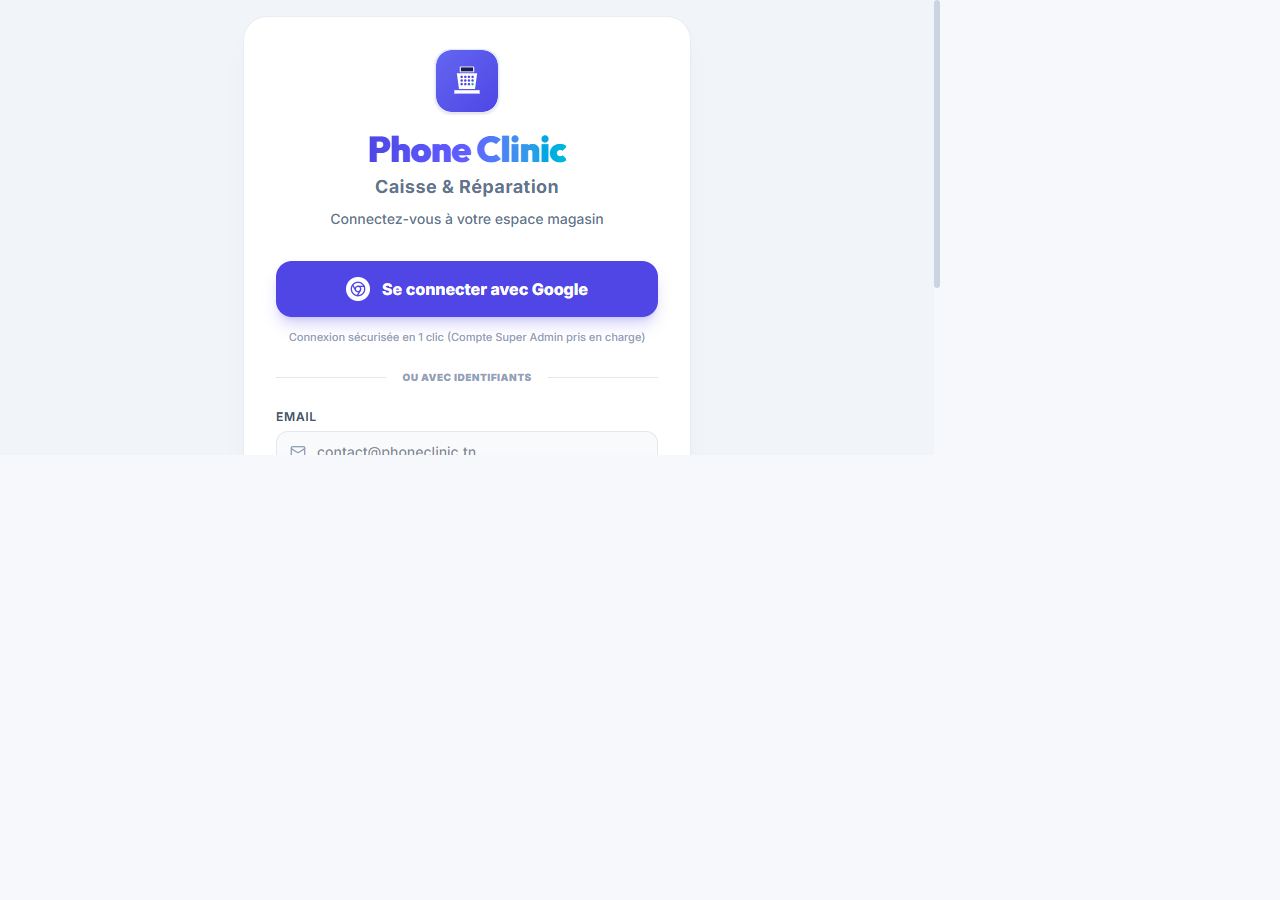
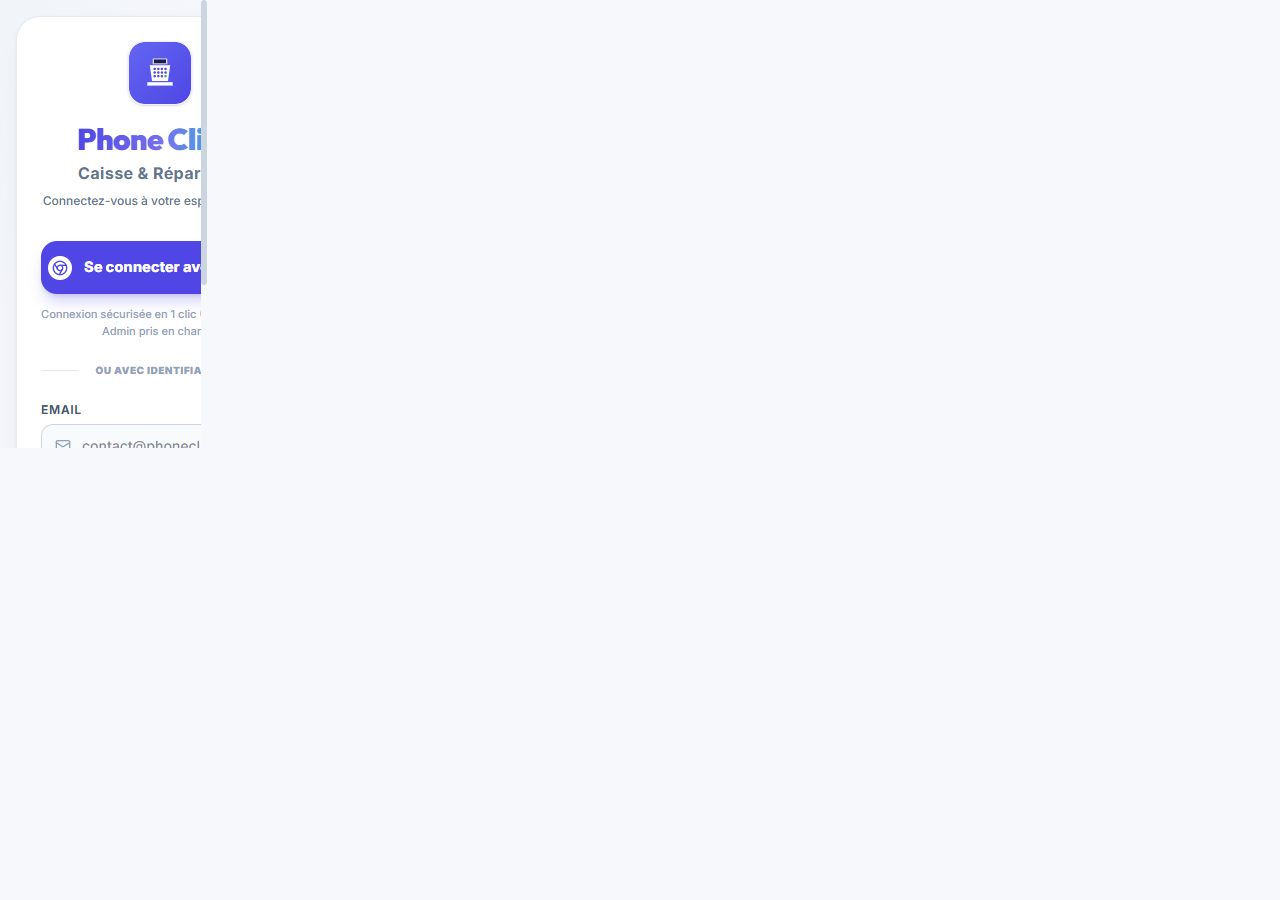
Add shared design tokens and login captures

diff --git a/src/index.css b/src/index.css
@@ -5,12 +5,100 @@
   --font-mono: "JetBrains Mono", ui-monospace, SFMono-Regular, monospace;
   --font-display: "Outfit Variable", Outfit, sans-serif;
   --color-brand: var(--brand-primary, #4f46e5);
+  --color-indigo-50: color-mix(in srgb, var(--brand-primary, #4f46e5) 5%, white);
+  --color-indigo-100: color-mix(in srgb, var(--brand-primary, #4f46e5) 10%, white);
+  --color-indigo-200: color-mix(in srgb, var(--brand-primary, #4f46e5) 20%, white);
+  --color-indigo-300: color-mix(in srgb, var(--brand-primary, #4f46e5) 35%, white);
+  --color-indigo-400: color-mix(in srgb, var(--brand-primary, #4f46e5) 55%, white);
+  --color-indigo-500: color-mix(in srgb, var(--brand-primary, #4f46e5) 78%, white);
   --color-indigo-600: var(--brand-primary, #4f46e5);
   --color-indigo-700: color-mix(in srgb, var(--brand-primary, #4f46e5) 82%, black);
+  --color-indigo-800: color-mix(in srgb, var(--brand-primary, #4f46e5) 68%, black);
+  --color-indigo-900: color-mix(in srgb, var(--brand-primary, #4f46e5) 54%, black);
+  --color-indigo-950: color-mix(in srgb, var(--brand-primary, #4f46e5) 42%, black);
+  --spacing-page: clamp(1rem, 3vw, 2rem);
+  --spacing-card: clamp(1rem, 2vw, 1.5rem);
   --radius-card: 1.25rem;
   --radius-control: 0.75rem;
+  --radius-panel: 1.5rem;
+  --shadow-soft: 0 2px 12px rgb(15 23 42 / 5%);
   --shadow-card: 0 12px 36px -24px rgb(15 23 42 / 24%), 0 1px 3px rgb(15 23 42 / 5%);
   --shadow-card-hover: 0 20px 42px -24px rgb(15 23 42 / 30%), 0 4px 10px rgb(15 23 42 / 5%);
+}
+
+@layer base {
+  body {
+    font-family: var(--font-sans);
+    line-height: 1.5;
+  }
+
+  h1, h2, h3, h4, h5, h6 {
+    font-family: var(--font-display);
+  }
+
+  button, [role="button"] {
+    min-height: 40px;
+    transition-duration: 160ms;
+  }
+
+  input:not([type="checkbox"]):not([type="radio"]):not([type="range"]),
+  select, textarea {
+    min-height: 40px;
+    border-radius: var(--radius-control);
+  }
+}
+
+@layer components {
+  .app-card {
+    border: 1px solid rgb(226 232 240 / 85%);
+    border-radius: var(--radius-card);
+    background: white;
+    box-shadow: var(--shadow-card);
+    transition: box-shadow 180ms ease, border-color 180ms ease;
+  }
+
+  .app-card:hover {
+    box-shadow: var(--shadow-card-hover);
+  }
+
+  .app-field {
+    min-height: 44px;
+    border: 1px solid rgb(203 213 225);
+    border-radius: var(--radius-control);
+    background: white;
+    padding: 0.625rem 0.875rem;
+    color: #0f172a;
+    transition: border-color 160ms ease, box-shadow 160ms ease;
+  }
+
+  .app-button-primary,
+  .app-button-secondary,
+  .app-button-danger {
+    display: inline-flex;
+    min-height: 40px;
+    align-items: center;
+    justify-content: center;
+    border-radius: var(--radius-control);
+    padding: 0.625rem 1rem;
+    font-weight: 700;
+    transition: background-color 160ms ease, color 160ms ease, box-shadow 160ms ease;
+  }
+
+  .app-button-primary {
+    background: var(--brand-primary, #4f46e5);
+    color: white;
+  }
+
+  .app-button-secondary {
+    border: 1px solid rgb(203 213 225);
+    background: white;
+    color: #334155;
+  }
+
+  .app-button-danger {
+    background: #be123c;
+    color: white;
+  }
 }
 
 @font-face {
@@ -112,6 +200,20 @@ tbody tr {
 
 .premium-shadow:hover {
   box-shadow: var(--shadow-card-hover);
+}
+
+.app-nav-active {
+  position: relative;
+}
+
+.app-nav-active::before {
+  position: absolute;
+  inset-block: 0.5rem;
+  left: 0;
+  width: 3px;
+  border-radius: 0 999px 999px 0;
+  background: white;
+  content: "";
 }
 
 @media print {

diff --git a/src/components/Login.tsx b/src/components/Login.tsx
@@ -135,8 +135,8 @@ export default function Login({ initialMessage = '' }: { initialMessage?: string
   };
 
   return (
-    <div className="min-h-screen flex items-center justify-center bg-slate-100 p-4">
-      <div className="max-w-md w-full bg-white rounded-3xl shadow-xl shadow-slate-200/60 p-6 sm:p-8 border border-slate-200/80">
+    <div className="min-h-screen flex items-center justify-center bg-gradient-to-br from-slate-100 via-indigo-50/50 to-cyan-50 p-4">
+      <div className="app-card max-w-md w-full rounded-3xl p-6 sm:p-8">
         <div className="text-center mb-8">
           <div className="inline-flex items-center justify-center w-16 h-16 rounded-2xl bg-gradient-to-tr from-indigo-50 to-cyan-50 text-indigo-600 mb-4 shadow-sm border border-indigo-100">
             {APP_LOGO_URL ? <img src={APP_LOGO_URL} alt="" className="h-full w-full rounded-2xl object-cover" /> : <ShoppingCart className="w-8 h-8 text-indigo-600" />}
@@ -192,7 +192,7 @@ export default function Login({ initialMessage = '' }: { initialMessage?: string
                 required
                 value={email}
                 onChange={(e) => setEmail(e.target.value)}
-                className="w-full pl-10 pr-4 py-2.5 bg-slate-50 border border-slate-200 rounded-xl focus:ring-2 focus:ring-indigo-500/20 focus:border-indigo-500 outline-none transition-all text-sm font-medium"
+                className="app-field w-full pl-10 pr-4 bg-slate-50 focus:ring-2 focus:ring-indigo-500/20 focus:border-indigo-500 outline-none text-sm font-medium"
                 placeholder="contact@phoneclinic.tn"
               />
             </div>
@@ -207,7 +207,7 @@ export default function Login({ initialMessage = '' }: { initialMessage?: string
                 required
                 value={password}
                 onChange={(e) => setPassword(e.target.value)}
-                className="w-full pl-10 pr-4 py-2.5 bg-slate-50 border border-slate-200 rounded-xl focus:ring-2 focus:ring-indigo-500/20 focus:border-indigo-500 outline-none transition-all text-sm font-medium"
+                className="app-field w-full pl-10 pr-4 bg-slate-50 focus:ring-2 focus:ring-indigo-500/20 focus:border-indigo-500 outline-none text-sm font-medium"
                 placeholder="••••••••"
               />
             </div>

diff --git a/src/App.tsx b/src/App.tsx
@@ -274,9 +274,10 @@ function Sidebar({
                         className={cn(
                           "flex min-h-10 items-center gap-3 rounded-xl px-4 py-2.5 text-xs font-extrabold transition-all duration-200 relative group",
                           isActive
-                            ? "bg-indigo-600 text-white shadow-lg shadow-indigo-600/15"
+                            ? "app-nav-active bg-indigo-600 text-white shadow-lg shadow-indigo-600/15"
                             : "text-slate-600 hover:bg-slate-50 hover:text-slate-900"
                         )}
+                        aria-current={isActive ? 'page' : undefined}
                       >
                         <Icon className={cn("h-4 w-4 transition-transform group-hover:scale-110", isActive ? "text-white" : "text-slate-400")} />
                         <span className="flex-1">{item.name}</span>
@@ -851,7 +852,7 @@ export default function App() {
               </div>
             </header>
  
-            <div className="mx-auto w-full max-w-[1800px] flex-1 p-4 lg:p-8">
+            <div className="mx-auto w-full max-w-[1600px] flex-1 p-4 lg:p-8">
               <Routes>
                 <Route path="/" element={getFirstAccessiblePath(userProfile) === '/' ? <Dashboard userProfile={userProfile} /> : <Navigate to={getFirstAccessiblePath(userProfile)} replace />} />
                 <Route path="/products" element={hasMenuAccess(userProfile, 'products') ? <Products userProfile={userProfile} /> : <Navigate to="/" replace />} />
